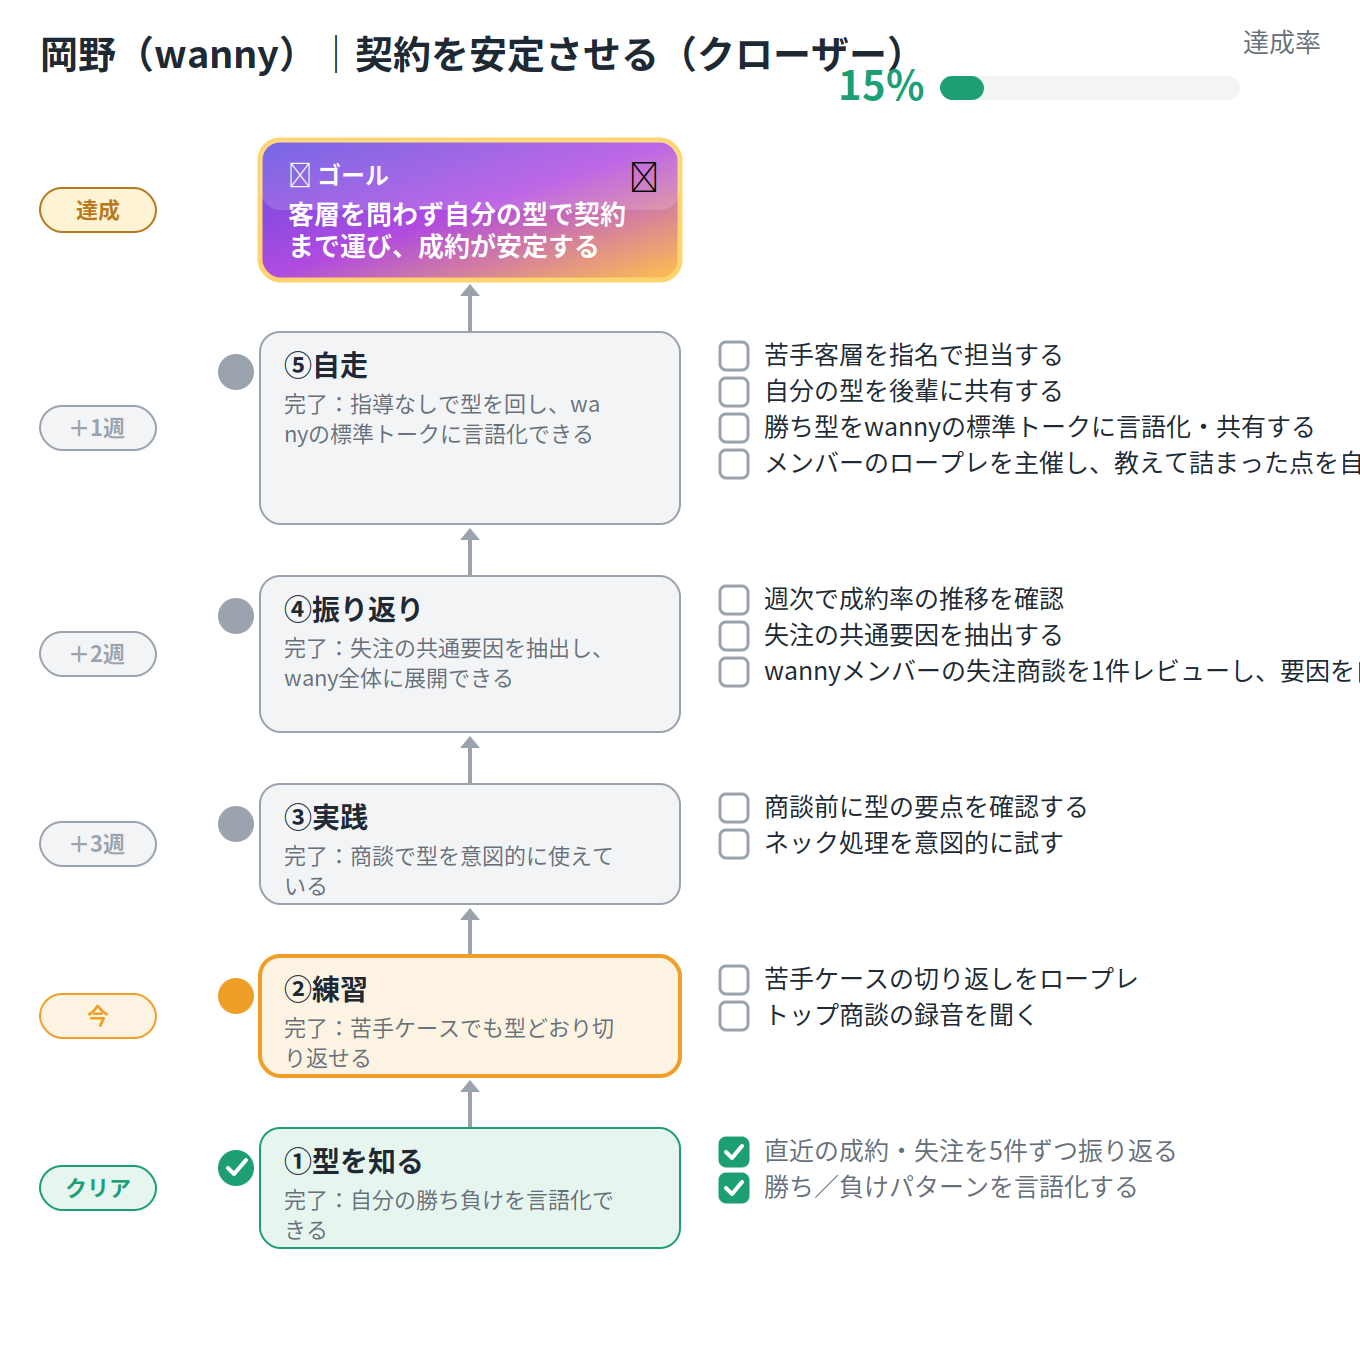
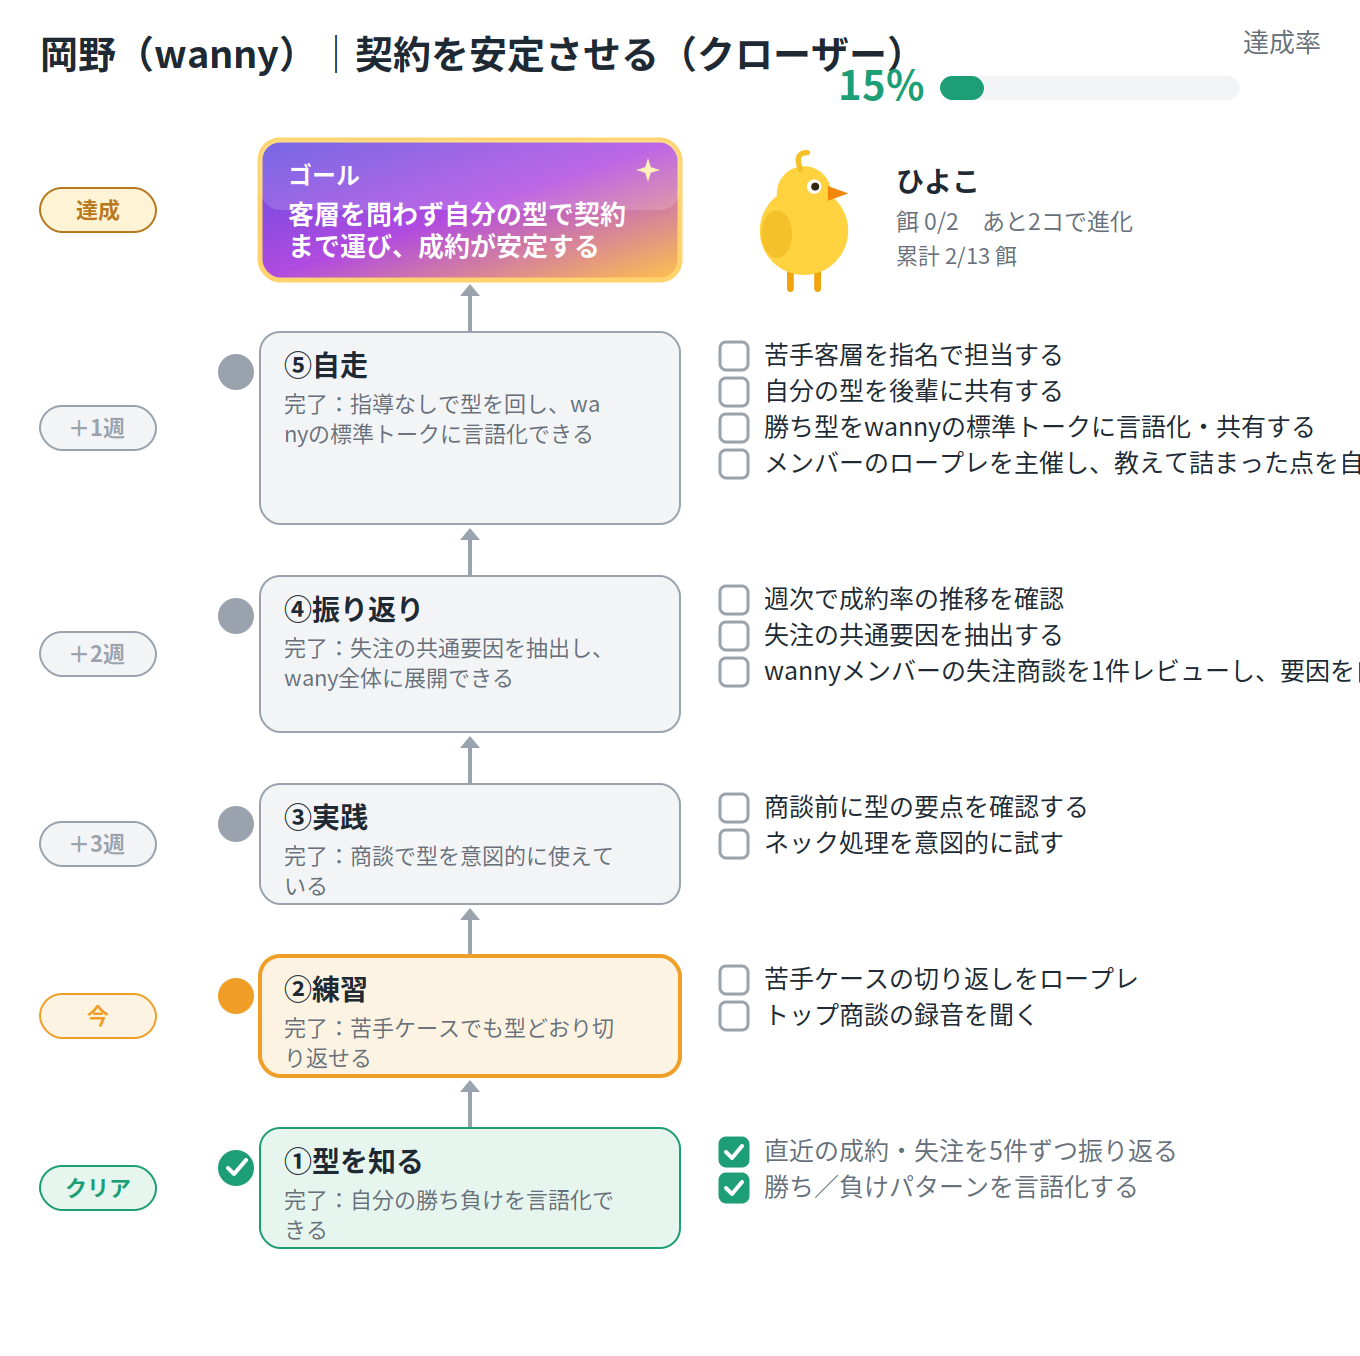
feat(goalmap): 達成度で進化する成長キャラ（卵→鳥→不死鳥）を追加
週次MTのゲーム感演出。ゴール箱の右に相棒キャラを描画し、達成度で進化：
- 卵→ひよこ→小鶏→とさか鶏→極彩鶏→不死鳥（100%で覚醒）
- 1タスク=餌1つ、1フェーズ完食=1進化。「あと◯コで進化」「累計◯/△餌」を表示
- 進化判定=①から順に全タスク完了したフェーズ数（growth()）
- studio・PNG・週次スライド全媒体で同一のSVG手描き（cairosvgで欠ける絵文字は不使用）
- 併せてゴール箱の🏆/✨絵文字をSVG星に置換（PNGでの欠けを解消）

Claude-Session: https://claude.ai/code/session_01F6diyL1HZ7PVsX9aSGvYQK

Changed region(s): [[0.5559, 0.1239, 0.8338, 0.2168], [0.2162, 0.1239, 0.2779, 0.1549], [0.4632, 0.1239, 0.4941, 0.1549]]

diff --git a/tools/goalmap/goalmap-studio.html b/tools/goalmap/goalmap-studio.html
@@ -155,6 +155,81 @@ const esc = s => String(s==null?"":s).replace(/[&<>]/g,c=>({"&":"&amp;","<":"&lt
 const wrap = (t,n) => {t=String(t||"");const r=[];for(let i=0;i<t.length;i+=n)r.push(t.slice(i,i+n));return r.length?r:[""];};
 const phaseH = n => Math.max(60, 24 + 18*n);
 
+// ───────── 成長キャラ（鶏→不死鳥）。1タスク=餌1つ、1フェーズ食べ切る=進化 ─────────
+const FORM_NAMES=["たまご","ひよこ","小鶏","とさか鶏","極彩鶏","不死鳥"];
+function growth(d){
+  const per=(d.phases||[]).map(p=>{const t=p.tasks||[];return{done:t.filter(x=>x.done).length,total:t.length};});
+  const all=per.reduce((s,p)=>s+p.total,0), allDone=per.reduce((s,p)=>s+p.done,0);
+  const rate=all?Math.round(allDone/all*100):0;
+  let cleared=0; for(const p of per){ if(p.total>0&&p.done===p.total)cleared++; else break; }
+  const form=rate>=100?5:Math.min(cleared,4);
+  let np=null; for(const p of per){ if(!(p.total>0&&p.done===p.total)){np=p;break;} }
+  if(!np)np=per[per.length-1]||{done:0,total:0};
+  return {rate,form,allDone,all,need:Math.max(0,np.total-np.done),phaseDone:np.done,phaseTotal:np.total};
+}
+function star(cx,cy,r,fill){
+  const pts=[[0,-1],[0.24,-0.24],[1,0],[0.24,0.24],[0,1],[-0.24,0.24],[-1,0],[-0.24,-0.24]]
+    .map(([x,y])=>`${(cx+x*r).toFixed(1)},${(cy+y*r).toFixed(1)}`).join(" ");
+  return `<polygon points="${pts}" fill="${fill}"/>`;
+}
+function birdMarkup(form,cx,cy,s,phaseDone){
+  const X=v=>(cx+v*s).toFixed(1),Y=v=>(cy+v*s).toFixed(1),R=v=>(v*s).toFixed(1);
+  const o=[];
+  const line=(x1,y1,x2,y2,c,w)=>o.push(`<line x1="${X(x1)}" y1="${Y(y1)}" x2="${X(x2)}" y2="${Y(y2)}" stroke="${c}" stroke-width="${R(w)}" stroke-linecap="round"/>`);
+  const circ=(x,y,r,f)=>o.push(`<circle cx="${X(x)}" cy="${Y(y)}" r="${R(r)}" fill="${f}"/>`);
+  const ell=(x,y,rx,ry,f)=>o.push(`<ellipse cx="${X(x)}" cy="${Y(y)}" rx="${R(rx)}" ry="${R(ry)}" fill="${f}"/>`);
+  const beak=(x,y,w,c)=>o.push(`<polygon points="${X(x)},${Y(y-2.2)} ${X(x+w)},${Y(y)} ${X(x)},${Y(y+2.2)}" fill="${c||'#F2870D'}"/>`);
+  const eye=(x,y)=>{circ(x,y,2.1,"#FFFFFF");circ(x+0.3,y,1.2,"#33270D");};
+  const comb=(x,y,n,r)=>{for(let i=0;i<n;i++)circ(x+i*r*1.3-((n-1)*r*1.3)/2,y-(i%2?1.6:0),r,"#E0352B");};
+  const M=(x,y)=>`M${X(x)},${Y(y)}`,Q=(a,b,x,y)=>`Q${X(a)},${Y(b)} ${X(x)},${Y(y)}`,L=(x,y)=>`L${X(x)},${Y(y)}`;
+  const path=(d,f,st,w)=>o.push(`<path d="${d}" fill="${f||'none'}"${st?` stroke="${st}" stroke-width="${R(w||2)}" stroke-linecap="round" stroke-linejoin="round"`:''}/>`);
+  if(form===0){
+    ell(0,0,15,19,"#FFF3D6");
+    o.push(`<ellipse cx="${X(0)}" cy="${Y(0)}" rx="${R(15)}" ry="${R(19)}" fill="none" stroke="#E2D2A0" stroke-width="${R(1.4)}"/>`);
+    circ(-5,-3,1.5,"#E6D3A0");circ(5,5,1.3,"#E6D3A0");circ(1,11,1.2,"#E6D3A0");
+    if(phaseDone>0)path(M(-6,-7)+L(-2,-3)+L(-6,1)+L(-1,5),null,"#C9B27A",1.6);
+  }else if(form===1){
+    line(-4,13,-4,19,"#F2A30D",2);line(4,13,4,19,"#F2A30D",2);
+    circ(0,2,13,"#FFD23F");ell(-8,3,4.5,7,"#F4C12B");
+    circ(0,-9,8,"#FFD23F");beak(7,-9,6);eye(3,-11);
+    path(M(-1,-16)+Q(-3,-21,1,-21),null,"#F4C12B",1.6);
+  }else if(form===2){
+    line(-5,15,-5,21,"#F2A30D",2);line(5,15,5,21,"#F2A30D",2);
+    path(M(-13,2)+Q(-21,0,-22,-8),null,"#F4C12B",3);
+    ell(0,3,15,14,"#FFE066");ell(-7,4,5.5,9,"#F4C12B");line(-9,0,-5,7,"#E8B23A",1.4);
+    circ(2,-9,9,"#FFE066");comb(2,-18,2,2.4);beak(11,-9,6);eye(6,-11);
+  }else if(form===3){
+    line(-5,17,-5,24,"#E8901F",2.2);line(5,17,5,24,"#E8901F",2.2);
+    path(M(-14,2)+Q(-26,-2,-24,-14),null,"#E8B04B",4);
+    path(M(-13,5)+Q(-24,4,-26,-6),null,"#C98A2E",3);
+    ell(0,4,17,15,"#FBEFD0");ell(-6,5,7,10,"#E8B04B");line(-8,1,-3,9,"#CC9A3D",1.5);
+    circ(4,-9,9,"#FBEFD0");comb(4,-19,3,2.6);
+    o.push(`<ellipse cx="${X(11)}" cy="${Y(-4)}" rx="${R(1.8)}" ry="${R(3.4)}" fill="#E0352B"/>`);
+    beak(12,-8,6);eye(7,-11);
+  }else if(form===4){
+    line(-5,18,-5,25,"#E8901F",2.4);line(5,18,5,25,"#E8901F",2.4);
+    path(M(-14,3)+Q(-30,-3,-27,-18),null,"#37C9B0",4.5);
+    path(M(-15,6)+Q(-30,4,-30,-9),null,"#FF8A3D",4);
+    path(M(-13,9)+Q(-26,11,-29,1),null,"#FFD23F",3.5);
+    ell(0,5,18,16,"url(#hen)");ell(-5,6,7.5,11,"#FF8A3D");line(-7,2,-2,11,"#E0702A",1.6);
+    circ(5,-9,10,"url(#hen)");comb(5,-21,3,3);
+    o.push(`<ellipse cx="${X(13)}" cy="${Y(-4)}" rx="${R(2)}" ry="${R(3.8)}" fill="#E0352B"/>`);
+    beak(13,-8,7);eye(8,-11);
+    o.push(star(cx+15*s,cy-16*s,3.4*s,"#FFFFFF"));
+  }else{
+    o.push(`<circle cx="${X(0)}" cy="${Y(0)}" r="${R(23)}" fill="#FFB84D" opacity="0.20"/>`);
+    path(M(-2,2)+Q(-26,-6,-31,-22)+Q(-15,-12,-6,-6)+"Z","url(#phx)");
+    path(M(2,2)+Q(26,-6,31,-22)+Q(15,-12,6,-6)+"Z","url(#phx)");
+    ell(0,4,12,16,"url(#phx)");circ(0,-10,8,"url(#phx)");
+    path(M(-3,-17)+Q(-2,-27,2,-22)+Q(4,-29,6,-21)+Q(9,-27,8,-17)+"Z","url(#phx)");
+    beak(7,-12,7,"#FFB300");eye(3,-12);
+    path(M(-4,18)+Q(-2,31,3,24)+Q(5,33,8,23)+Q(11,31,9,19)+"Z","url(#phx)");
+    o.push(star(cx-21*s,cy-17*s,3*s,"#FFF1B8"));
+    o.push(star(cx+21*s,cy+13*s,2.4*s,"#FFF1B8"));
+  }
+  return o.join("");
+}
+
 function buildSvg(d){
   const W=680, PHASE_X=130, PHASE_W=210, PILL_X=20, PILL_W=58, TASK_X=360,
         HEADER_H=70, GAP=26, GOAL_H=70, PAD=28, LH=18;
@@ -167,7 +242,11 @@ function buildSvg(d){
   const cx=PHASE_X+PHASE_W/2;
   const o=[];
   o.push(`<svg xmlns="http://www.w3.org/2000/svg" id="gm" viewBox="0 0 ${W} ${H}" font-family="${FONT}" width="${W}" height="${H}">`);
-  o.push(`<defs><linearGradient id="goalGrad" x1="0" y1="0" x2="1" y2="1"><stop offset="0" stop-color="#5B4BE0"/><stop offset="0.5" stop-color="#B14BE0"/><stop offset="1" stop-color="#FFC24B"/></linearGradient></defs>`);
+  o.push(`<defs>`+
+    `<linearGradient id="goalGrad" x1="0" y1="0" x2="1" y2="1"><stop offset="0" stop-color="#5B4BE0"/><stop offset="0.5" stop-color="#B14BE0"/><stop offset="1" stop-color="#FFC24B"/></linearGradient>`+
+    `<linearGradient id="phx" x1="0" y1="0" x2="0" y2="1"><stop offset="0" stop-color="#FFE259"/><stop offset="0.5" stop-color="#FF9A00"/><stop offset="1" stop-color="#FF3D00"/></linearGradient>`+
+    `<linearGradient id="hen" x1="0" y1="0" x2="1" y2="1"><stop offset="0" stop-color="#37C9B0"/><stop offset="0.6" stop-color="#3DA0E8"/><stop offset="1" stop-color="#7A5BE0"/></linearGradient>`+
+    `</defs>`);
   o.push(`<rect x="0" y="0" width="${W}" height="${H}" fill="#fff"/>`);
   let head=esc(d.name||"")+(d.note?`（${esc(d.note)}）`:"")+`｜${esc(d.theme||"")}`;
   o.push(`<text x="20" y="34" font-size="19" font-weight="700" fill="${COL.ink}">${head}</text>`);
@@ -184,10 +263,21 @@ function buildSvg(d){
   const gy=HEADER_H;
   o.push(`<rect x="${PHASE_X}" y="${gy}" width="${PHASE_W}" height="${GOAL_H}" rx="10" fill="url(#goalGrad)" stroke="#FFD36E" stroke-width="2.5"/>`);
   o.push(`<rect x="${PHASE_X}" y="${gy}" width="${PHASE_W}" height="${GOAL_H/2}" rx="10" fill="#ffffff" opacity="0.16"/>`);
-  o.push(`<text x="${PHASE_X+14}" y="${gy+22}" font-size="12" font-weight="700" fill="#fff">🏆 ゴール</text>`);
-  o.push(`<text x="${PHASE_X+PHASE_W-12}" y="${gy+24}" text-anchor="end" font-size="15">✨</text>`);
+  o.push(`<text x="${PHASE_X+14}" y="${gy+22}" font-size="12" font-weight="700" fill="#fff">ゴール</text>`);
+  o.push(star(PHASE_X+PHASE_W-16, gy+15, 6, "#FFF1B8"));
   wrap(d.goal,13).slice(0,2).forEach((l,k)=>o.push(`<text x="${PHASE_X+14}" y="${gy+42+k*16}" font-size="13" font-weight="600" fill="#fff">${esc(l)}</text>`));
   pill(gy+GOAL_H/2,"達成","#B7791F","#FFF3D6");
+  // ── 成長キャラ（達成感メーター：1タスク=餌、1フェーズ完食=進化）──
+  const g=growth(d);
+  const ccx=402, ccy=112, cs=1.7, tx=ccx+46;
+  o.push(birdMarkup(g.form,ccx,ccy,cs,g.phaseDone));
+  o.push(`<text x="${tx}" y="${ccy-16}" font-size="14" font-weight="700" fill="${COL.ink}">${esc(FORM_NAMES[g.form])}</text>`);
+  if(g.form<5){
+    o.push(`<text x="${tx}" y="${ccy+3}" font-size="11.5" fill="${COL.sub}">餌 ${g.phaseDone}/${g.phaseTotal}　あと${g.need}コで進化</text>`);
+    o.push(`<text x="${tx}" y="${ccy+20}" font-size="11" fill="${COL.sub}">累計 ${g.allDone}/${g.all} 餌</text>`);
+  }else{
+    o.push(`<text x="${tx}" y="${ccy+3}" font-size="12.5" font-weight="700" fill="#C2410C">覚醒！全タスク完了</text>`);
+  }
   let y=gy+GOAL_H+GAP; arrow(y,gy+GOAL_H); let weeks=0;
   order.forEach(idx=>{
     const p=phases[idx], h=hts[idx], sn=idx+1, tasks=p.tasks||[];

diff --git a/tools/goalmap/generate_goalmap.py b/tools/goalmap/generate_goalmap.py
@@ -76,6 +76,133 @@ def wrap(text: str, n: int) -> list[str]:
     return [text[i:i + n] for i in range(0, len(text), n)] or [""]
 
 
+# ── 成長キャラ（鶏→不死鳥）。1タスク=餌1つ、1フェーズ食べ切る=進化 ──
+FORM_NAMES = ["たまご", "ひよこ", "小鶏", "とさか鶏", "極彩鶏", "不死鳥"]
+
+
+def growth(d: dict) -> dict:
+    per = []
+    for p in d.get("phases", []):
+        t = p.get("tasks", [])
+        per.append((sum(1 for x in t if x.get("done")), len(t)))
+    all_ = sum(tot for _, tot in per)
+    done = sum(dn for dn, _ in per)
+    rate = round(done / all_ * 100) if all_ else 0
+    cleared = 0
+    for dn, tot in per:
+        if tot > 0 and dn == tot:
+            cleared += 1
+        else:
+            break
+    form = 5 if rate >= 100 else min(cleared, 4)
+    nxt = None
+    for dn, tot in per:
+        if not (tot > 0 and dn == tot):
+            nxt = (dn, tot)
+            break
+    if nxt is None:
+        nxt = per[-1] if per else (0, 0)
+    return {"rate": rate, "form": form, "allDone": done, "all": all_,
+            "need": max(0, nxt[1] - nxt[0]), "phaseDone": nxt[0], "phaseTotal": nxt[1]}
+
+
+def star(cx: float, cy: float, r: float, fill: str) -> str:
+    pts = [(0, -1), (0.24, -0.24), (1, 0), (0.24, 0.24),
+           (0, 1), (-0.24, 0.24), (-1, 0), (-0.24, -0.24)]
+    s = " ".join(f"{cx+x*r:.1f},{cy+y*r:.1f}" for x, y in pts)
+    return f'<polygon points="{s}" fill="{fill}"/>'
+
+
+def bird_markup(form: int, cx: float, cy: float, s: float, phase_done: int) -> str:
+    X = lambda v: f"{cx+v*s:.1f}"  # noqa: E731
+    Y = lambda v: f"{cy+v*s:.1f}"  # noqa: E731
+    R = lambda v: f"{v*s:.1f}"     # noqa: E731
+    o: list[str] = []
+
+    def line(x1, y1, x2, y2, c, w):
+        o.append(f'<line x1="{X(x1)}" y1="{Y(y1)}" x2="{X(x2)}" y2="{Y(y2)}" '
+                 f'stroke="{c}" stroke-width="{R(w)}" stroke-linecap="round"/>')
+
+    def circ(x, y, r, f):
+        o.append(f'<circle cx="{X(x)}" cy="{Y(y)}" r="{R(r)}" fill="{f}"/>')
+
+    def ell(x, y, rx, ry, f):
+        o.append(f'<ellipse cx="{X(x)}" cy="{Y(y)}" rx="{R(rx)}" ry="{R(ry)}" fill="{f}"/>')
+
+    def beak(x, y, w, c="#F2870D"):
+        o.append(f'<polygon points="{X(x)},{Y(y-2.2)} {X(x+w)},{Y(y)} '
+                 f'{X(x)},{Y(y+2.2)}" fill="{c}"/>')
+
+    def eye(x, y):
+        circ(x, y, 2.1, "#FFFFFF")
+        circ(x + 0.3, y, 1.2, "#33270D")
+
+    def comb(x, y, n, r):
+        for i in range(n):
+            circ(x + i * r * 1.3 - ((n - 1) * r * 1.3) / 2, y - (1.6 if i % 2 else 0), r, "#E0352B")
+
+    def M(x, y):
+        return f"M{X(x)},{Y(y)}"
+
+    def Q(a, b, x, y):
+        return f"Q{X(a)},{Y(b)} {X(x)},{Y(y)}"
+
+    def L(x, y):
+        return f"L{X(x)},{Y(y)}"
+
+    def path(d_, f=None, st=None, w=2):
+        stroke = (f' stroke="{st}" stroke-width="{R(w)}" stroke-linecap="round" '
+                  f'stroke-linejoin="round"') if st else ""
+        o.append(f'<path d="{d_}" fill="{f or "none"}"{stroke}/>')
+
+    if form == 0:
+        ell(0, 0, 15, 19, "#FFF3D6")
+        o.append(f'<ellipse cx="{X(0)}" cy="{Y(0)}" rx="{R(15)}" ry="{R(19)}" '
+                 f'fill="none" stroke="#E2D2A0" stroke-width="{R(1.4)}"/>')
+        circ(-5, -3, 1.5, "#E6D3A0"); circ(5, 5, 1.3, "#E6D3A0"); circ(1, 11, 1.2, "#E6D3A0")
+        if phase_done > 0:
+            path(M(-6, -7) + L(-2, -3) + L(-6, 1) + L(-1, 5), None, "#C9B27A", 1.6)
+    elif form == 1:
+        line(-4, 13, -4, 19, "#F2A30D", 2); line(4, 13, 4, 19, "#F2A30D", 2)
+        circ(0, 2, 13, "#FFD23F"); ell(-8, 3, 4.5, 7, "#F4C12B")
+        circ(0, -9, 8, "#FFD23F"); beak(7, -9, 6); eye(3, -11)
+        path(M(-1, -16) + Q(-3, -21, 1, -21), None, "#F4C12B", 1.6)
+    elif form == 2:
+        line(-5, 15, -5, 21, "#F2A30D", 2); line(5, 15, 5, 21, "#F2A30D", 2)
+        path(M(-13, 2) + Q(-21, 0, -22, -8), None, "#F4C12B", 3)
+        ell(0, 3, 15, 14, "#FFE066"); ell(-7, 4, 5.5, 9, "#F4C12B"); line(-9, 0, -5, 7, "#E8B23A", 1.4)
+        circ(2, -9, 9, "#FFE066"); comb(2, -18, 2, 2.4); beak(11, -9, 6); eye(6, -11)
+    elif form == 3:
+        line(-5, 17, -5, 24, "#E8901F", 2.2); line(5, 17, 5, 24, "#E8901F", 2.2)
+        path(M(-14, 2) + Q(-26, -2, -24, -14), None, "#E8B04B", 4)
+        path(M(-13, 5) + Q(-24, 4, -26, -6), None, "#C98A2E", 3)
+        ell(0, 4, 17, 15, "#FBEFD0"); ell(-6, 5, 7, 10, "#E8B04B"); line(-8, 1, -3, 9, "#CC9A3D", 1.5)
+        circ(4, -9, 9, "#FBEFD0"); comb(4, -19, 3, 2.6)
+        o.append(f'<ellipse cx="{X(11)}" cy="{Y(-4)}" rx="{R(1.8)}" ry="{R(3.4)}" fill="#E0352B"/>')
+        beak(12, -8, 6); eye(7, -11)
+    elif form == 4:
+        line(-5, 18, -5, 25, "#E8901F", 2.4); line(5, 18, 5, 25, "#E8901F", 2.4)
+        path(M(-14, 3) + Q(-30, -3, -27, -18), None, "#37C9B0", 4.5)
+        path(M(-15, 6) + Q(-30, 4, -30, -9), None, "#FF8A3D", 4)
+        path(M(-13, 9) + Q(-26, 11, -29, 1), None, "#FFD23F", 3.5)
+        ell(0, 5, 18, 16, "url(#hen)"); ell(-5, 6, 7.5, 11, "#FF8A3D"); line(-7, 2, -2, 11, "#E0702A", 1.6)
+        circ(5, -9, 10, "url(#hen)"); comb(5, -21, 3, 3)
+        o.append(f'<ellipse cx="{X(13)}" cy="{Y(-4)}" rx="{R(2)}" ry="{R(3.8)}" fill="#E0352B"/>')
+        beak(13, -8, 7); eye(8, -11)
+        o.append(star(cx + 15 * s, cy - 16 * s, 3.4 * s, "#FFFFFF"))
+    else:
+        o.append(f'<circle cx="{X(0)}" cy="{Y(0)}" r="{R(23)}" fill="#FFB84D" opacity="0.20"/>')
+        path(M(-2, 2) + Q(-26, -6, -31, -22) + Q(-15, -12, -6, -6) + "Z", "url(#phx)")
+        path(M(2, 2) + Q(26, -6, 31, -22) + Q(15, -12, 6, -6) + "Z", "url(#phx)")
+        ell(0, 4, 12, 16, "url(#phx)"); circ(0, -10, 8, "url(#phx)")
+        path(M(-3, -17) + Q(-2, -27, 2, -22) + Q(4, -29, 6, -21) + Q(9, -27, 8, -17) + "Z", "url(#phx)")
+        beak(7, -12, 7, "#FFB300"); eye(3, -12)
+        path(M(-4, 18) + Q(-2, 31, 3, 24) + Q(5, 33, 8, 23) + Q(11, 31, 9, 19) + "Z", "url(#phx)")
+        o.append(star(cx - 21 * s, cy - 17 * s, 3 * s, "#FFF1B8"))
+        o.append(star(cx + 21 * s, cy + 13 * s, 2.4 * s, "#FFF1B8"))
+    return "".join(o)
+
+
 def build_svg(d: dict, font: str = FONT) -> str:
     phases = d["phases"]
     assert len(phases) == 5, "phases は必ず5要素（①〜⑤）"
@@ -98,10 +225,20 @@ def build_svg(d: dict, font: str = FONT) -> str:
         f'font-family="{font}" width="{WIDTH}" height="{H}">'
     )
     out.append(
-        '<defs><linearGradient id="goalGrad" x1="0" y1="0" x2="1" y2="1">'
+        '<defs>'
+        '<linearGradient id="goalGrad" x1="0" y1="0" x2="1" y2="1">'
         '<stop offset="0" stop-color="#5B4BE0"/>'
         '<stop offset="0.5" stop-color="#B14BE0"/>'
-        '<stop offset="1" stop-color="#FFC24B"/></linearGradient></defs>'
+        '<stop offset="1" stop-color="#FFC24B"/></linearGradient>'
+        '<linearGradient id="phx" x1="0" y1="0" x2="0" y2="1">'
+        '<stop offset="0" stop-color="#FFE259"/>'
+        '<stop offset="0.5" stop-color="#FF9A00"/>'
+        '<stop offset="1" stop-color="#FF3D00"/></linearGradient>'
+        '<linearGradient id="hen" x1="0" y1="0" x2="1" y2="1">'
+        '<stop offset="0" stop-color="#37C9B0"/>'
+        '<stop offset="0.6" stop-color="#3DA0E8"/>'
+        '<stop offset="1" stop-color="#7A5BE0"/></linearGradient>'
+        '</defs>'
     )
     out.append(f'<rect x="0" y="0" width="{WIDTH}" height="{H}" fill="#FFFFFF"/>')
 
@@ -154,11 +291,9 @@ def build_svg(d: dict, font: str = FONT) -> str:
     )
     out.append(
         f'<text x="{PHASE_X+14}" y="{gy+22}" font-size="12" font-weight="700" '
-        f'fill="#FFFFFF">🏆 ゴール</text>'
+        f'fill="#FFFFFF">ゴール</text>'
     )
-    out.append(
-        f'<text x="{PHASE_X+PHASE_W-12}" y="{gy+24}" text-anchor="end" font-size="15">✨</text>'
-    )
+    out.append(star(PHASE_X + PHASE_W - 16, gy + 15, 6, "#FFF1B8"))
     for k, line in enumerate(wrap(d.get("goal", ""), 13)[:2]):
         out.append(
             f'<text x="{PHASE_X+14}" y="{gy+42+k*16}" font-size="13" font-weight="600" '
@@ -166,6 +301,29 @@ def build_svg(d: dict, font: str = FONT) -> str:
         )
     # 時間軸ピル「達成」（ゴールに合わせて金）
     _pill(out, gy + GOAL_H / 2, "達成", "#B7791F", "#FFF3D6")
+
+    # ── 成長キャラ（達成感メーター：1タスク=餌、1フェーズ完食=進化）──
+    g = growth(d)
+    ccx, ccy, cs, tx = 402, 112, 1.7, 448
+    out.append(bird_markup(g["form"], ccx, ccy, cs, g["phaseDone"]))
+    out.append(
+        f'<text x="{tx}" y="{ccy-16}" font-size="14" font-weight="700" '
+        f'fill="{C_INK}">{esc(FORM_NAMES[g["form"]])}</text>'
+    )
+    if g["form"] < 5:
+        out.append(
+            f'<text x="{tx}" y="{ccy+3}" font-size="11.5" fill="{C_SUB}">'
+            f'餌 {g["phaseDone"]}/{g["phaseTotal"]}　あと{g["need"]}コで進化</text>'
+        )
+        out.append(
+            f'<text x="{tx}" y="{ccy+20}" font-size="11" fill="{C_SUB}">'
+            f'累計 {g["allDone"]}/{g["all"]} 餌</text>'
+        )
+    else:
+        out.append(
+            f'<text x="{tx}" y="{ccy+3}" font-size="12.5" font-weight="700" '
+            f'fill="#C2410C">覚醒！全タスク完了</text>'
+        )
 
     # ── フェーズ箱（⑤→①）─────────────────────
     y = gy + GOAL_H + GAP

diff --git a/tools/goalmap/README.md b/tools/goalmap/README.md
@@ -63,6 +63,22 @@ cat data.json | python tools/goalmap/generate_goalmap.py -
 
 > **判定の主役はゴール**（達成率もゴール直下のタスクで測る）。テーマは「どの分野の話か」をひと言で表す見出しで、**省略可**。1メンバー＝ゴール1つが基本。テーマとゴールがほぼ同義になるなら、テーマは空でも構わない。
 
+## 成長キャラ（ゲーム感の演出）
+
+達成度に応じて、ゴール箱の右の相棒が**卵→鳥→不死鳥**に進化する。**1タスク＝餌1つ、1フェーズ食べ切る＝1進化**。studio・PNG・週次スライドすべて同じSVG手描きで出る（絵文字非使用）。
+
+| 形態 | 条件 |
+|---|---|
+| 🥚 たまご | フェーズ①未完了（餌が入ると殻にヒビ） |
+| ひよこ | ①型を知る を完了 |
+| 小鶏 | ②練習 を完了 |
+| とさか鶏 | ③実践 を完了 |
+| 極彩鶏 | ④振り返り を完了（彩り鮮やかな大鶏） |
+| 🔥 不死鳥 | 達成率100%（全タスク完了）＝覚醒 |
+
+- 進化の判定は**①から順に「全タスク完了したフェーズ数」**。脇に `餌 ◯/△・あと△コで進化` と `累計 ◯/△ 餌` を表示。
+- 実装：`generate_goalmap.py` の `growth()` / `bird_markup()`、studioは同名のJS関数（仕様一致）。
+
 ## 図解の確定仕様（厳守）
 
 座標系 viewBox `0 0 680 H`（H可変）。上→下に goal, ⑤, ④, ③, ②, ① の順、矢印は上向き。
@@ -70,7 +86,8 @@ cat data.json | python tools/goalmap/generate_goalmap.py -
 | 要素 | 仕様 |
 |---|---|
 | ヘッダー | 左：`名前（所属）｜テーマ` ／ 右：達成率%＋バー |
-| ゴール箱 | 最上部・**輝くグラデーション**（紫#5B4BE0→マゼンタ#B14BE0→金#FFC24B）・金枠#FFD36E・上半分にツヤ。「🏆 ゴール」＋ゴール文（白）＋✨ |
+| ゴール箱 | 最上部・**輝くグラデーション**（紫#5B4BE0→マゼンタ#B14BE0→金#FFC24B）・金枠#FFD36E・上半分にツヤ。「ゴール」＋ゴール文（白）＋星（SVG手描き） |
+| 成長キャラ | ゴール箱の右。達成度で 卵→ひよこ→小鶏→とさか鶏→極彩鶏→不死鳥（上記「成長キャラ」参照）。全媒体SVG手描き |
 | フェーズ箱 | x=130, w=210。フェーズ名＋「完了：〜」。左に状態マーカー円。高さ=`max(60, 24+18×タスク数)` |
 | 時間軸ピル | 左 x=20, w=58。クリア/今/＋N週/達成 |
 | タスク | 箱の右 x=360〜。チェックボックス＋タスク名。済=塗り＋チェック＋取り消し線 |